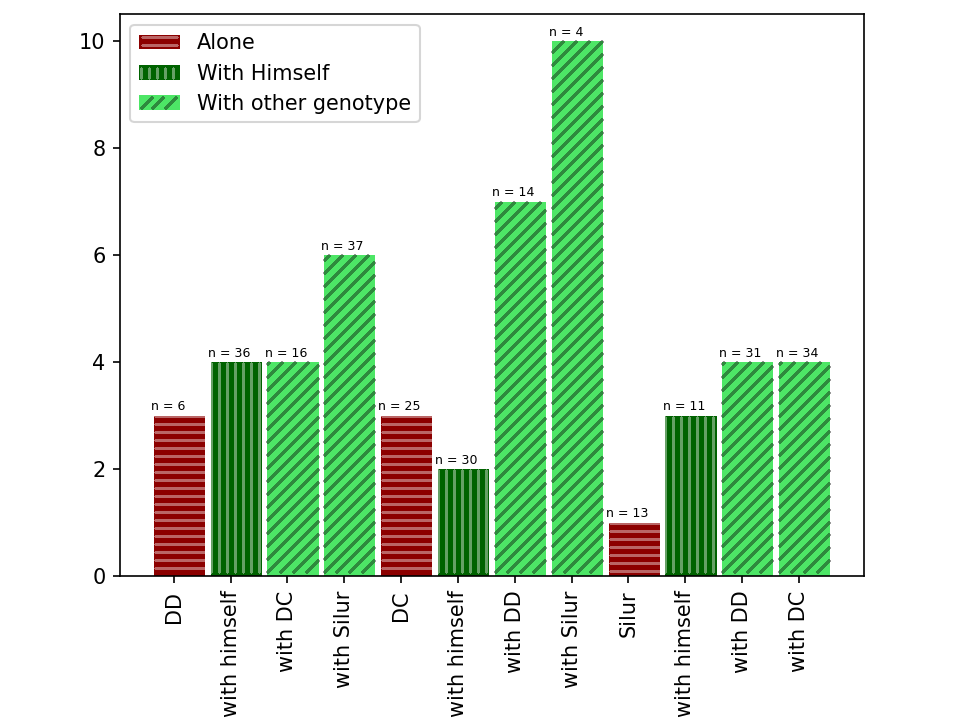
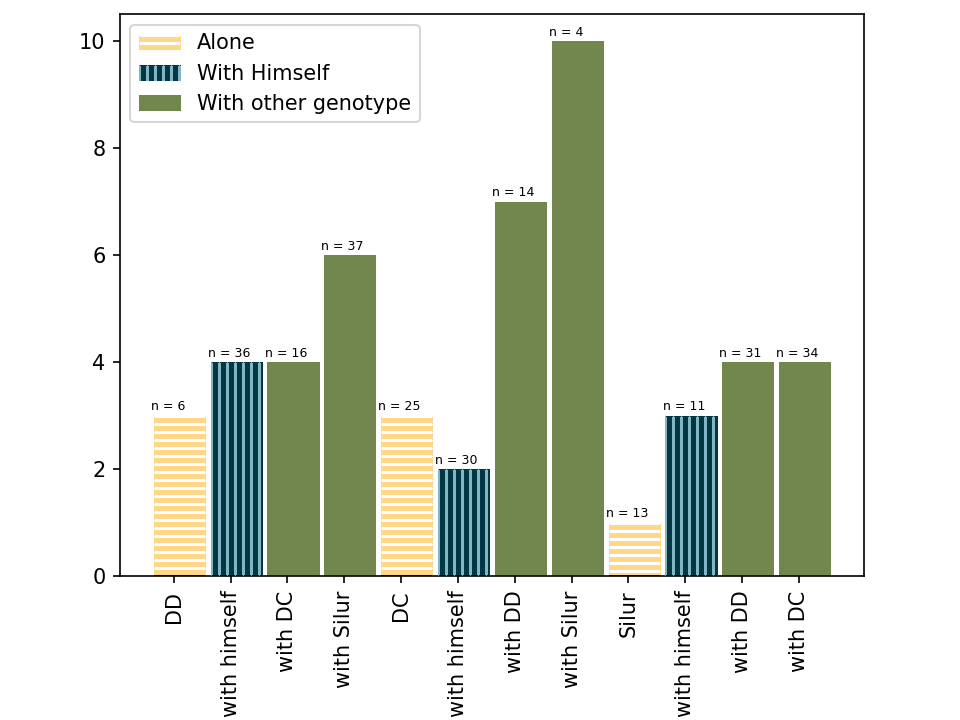
adding color adjustments

Changed region(s): [[0.1562, 0.0306, 0.875, 0.825], [0.125, 0.0306, 0.1875, 0.1528]]

diff --git a/Prototype/backend/Algorithm/addPattern.py b/Prototype/backend/Algorithm/addPattern.py
@@ -3,8 +3,20 @@ import numpy as np
 from sklearn.cluster import KMeans
 from sklearn.cluster import DBSCAN
 from scipy.spatial.distance import euclidean
+import os
 
-def add_hatches_to_bars(input_path, output_path, num_colors=3, hatch_alpha=0.3):
+def add_hatches_to_bars(input_path, output_folder, hatch_alpha=0.3, change_color=True):
+    """
+    Adjust colors and add hatch patterns to bars in a bar plot image.
+    :param input_path: Path to the input image
+    :param output_folder: Path to the output folder
+    :param hatch_alpha: Alpha value for blending the hatches with the original image
+    :param change_color: If True, the bars will be colored with a predefined color palette
+
+    Results:
+    - hatched_bars.png: The image with hatched patterns on the bars
+    - color_adjusted.png: The original image with color adjustments (only when change_color=True)
+    """
     # Load image and convert color spaces
     img = cv2.imread(input_path)
     # get the image size
@@ -26,12 +38,6 @@ def add_hatches_to_bars(input_path, output_path, num_colors=3, hatch_alpha=0.3):
     margin = 10  # Add some margin
     x, y, w, h = x + margin, y + margin, w - 2*margin, h - 2*margin
     plot_area = gray[y:y+h, x:x+w]
-
-    # # show the contour
-    # cv2.drawContours(img_rgb, [plot_contour], -1, (255, 255, 0), 2)
-    # cv2.imshow('Largest Contour', cv2.cvtColor(img_rgb, cv2.COLOR_RGB2BGR))
-    # cv2.waitKey(0)
-    # cv2.destroyAllWindows()
     
     # Step 2: Detect bars within plot area
     # Adaptive thresholding for better bar detection
@@ -46,12 +52,6 @@ def add_hatches_to_bars(input_path, output_path, num_colors=3, hatch_alpha=0.3):
     # Find bar contours
     bar_contours, _ = cv2.findContours(cleaned, cv2.RETR_EXTERNAL, cv2.CHAIN_APPROX_SIMPLE)
 
-    # # show the bar contours
-    # cv2.drawContours(plot_area_rgb, bar_contours, -1, (0, 255, 0), 2)
-    # cv2.imshow('Bar Contours', cv2.cvtColor(plot_area_rgb, cv2.COLOR_RGB2BGR))
-    # cv2.waitKey(0)
-    # cv2.destroyAllWindows()
-    
     # Filter and collect bars with coordinates in the original image space
     bars = []
     legends = []
@@ -74,22 +74,8 @@ def add_hatches_to_bars(input_path, output_path, num_colors=3, hatch_alpha=0.3):
         s_variance = np.var(hsv_roi[:, :, 1])
         v_variance = np.var(hsv_roi[:, :, 2])
         if h_variance < 100 and s_variance < 100 and v_variance < 100:
-            bars.append((xb, yb, wb, hb + margin//2))
+            bars.append((xb, yb, wb, hb + margin - 3))
     
-    # # plot the bars
-    # for (xb, yb, wb, hb) in bars:
-    #     cv2.rectangle(img_rgb, (xb, yb), (xb+wb, yb+hb), (255, 0, 0), 1)
-    # cv2.imshow('Bars', cv2.cvtColor(img_rgb, cv2.COLOR_RGB2BGR))
-    # cv2.waitKey(0)
-    # cv2.destroyAllWindows()
-
-    # # plot the legends
-    # for (xb, yb, wb, hb) in legends:
-    #     cv2.rectangle(img_rgb, (xb, yb), (xb+wb, yb+hb), (255, 0, 0), 1)
-    # cv2.imshow('Legends', cv2.cvtColor(img_rgb, cv2.COLOR_RGB2BGR))
-    # cv2.waitKey(0)
-    # cv2.destroyAllWindows()
-
     x_legend, y_legend, w_legend, h_legend = legends[0]
     margin_legend = 5
     x_legend, y_legend, w_legend, h_legend = x_legend + margin_legend, y_legend + margin_legend, w_legend - 2*margin_legend, h_legend - 2*margin_legend
@@ -107,15 +93,10 @@ def add_hatches_to_bars(input_path, output_path, num_colors=3, hatch_alpha=0.3):
     # Find bar contours
     legend_contours, _ = cv2.findContours(cleaned, cv2.RETR_EXTERNAL, cv2.CHAIN_APPROX_SIMPLE)
 
-    # # show all the legend contours on legend area
-    # cv2.drawContours(legend_area, legend_contours, -1, (0, 255, 0), 2)
-    # cv2.imshow('Legend Contours', legend_area)
-    # cv2.waitKey(0)
-
     # Filter and collect bars with coordinates in the original image space
     legend_bars = []
     min_bar_area = 5 # Adjust based on image size
-    small_bar_margin = 2
+    small_bar_margin = 0
     for cnt in legend_contours:
         area = cv2.contourArea(cnt)
         if area < min_bar_area:
@@ -182,6 +163,9 @@ def add_hatches_to_bars(input_path, output_path, num_colors=3, hatch_alpha=0.3):
     # cv2.waitKey(0)
     # cv2.destroyAllWindows()
 
+    acadia_color_palettes = ['#FED789FF', '#023743FF', '#72874EFF', '#476F84FF', '#A4BED5FF', '#453947FF']
+
+
     # Step 4: Create hatch patterns
     patterns = [
         {'type': 'horizontal', 'spacing': 8, 'thickness': 2},
@@ -192,33 +176,47 @@ def add_hatches_to_bars(input_path, output_path, num_colors=3, hatch_alpha=0.3):
     ]
     
     # Create overlay
-    overlay = original.copy()
+    color_overlay = original.copy()
+    hatch_overlay = np.zeros_like(original, dtype=np.uint8) # for hatches
+    for i, (group, bar_list) in enumerate(group_bars.items()):
+        if change_color:
+            bar_color = acadia_color_palettes[i % len(acadia_color_palettes)]
+            bar_color = tuple(int(bar_color[i:i+2], 16) for i in (1, 3, 5))
+            for (xb, yb, wb, hb) in bar_list:
+                cv2.rectangle(color_overlay, (xb, yb), (xb+wb, yb+hb), bar_color, -1)
+    # Save the result with color adjustments
+    result = color_overlay.copy()
+    output_path = os.path.join(output_folder, 'color_adjusted.png')
+    cv2.imwrite(output_path, cv2.cvtColor(result, cv2.COLOR_RGB2BGR))
+
+    if change_color:
+        hatch_overlay = color_overlay.copy()
+    else:
+        hatch_overlay = original.copy()
     for i, (group, bar_list) in enumerate(group_bars.items()):
         pattern = patterns[i % len(patterns)]
         bar_color = color_map[group]
         # get the luminance of the color and if it is less than 128, use white hatches
         luminance = 0.299 * bar_color[0] + 0.587 * bar_color[1] + 0.114 * bar_color[2]
         print(luminance)
-        if luminance < 128:
-            color = (255, 255, 255) # White hatches
-        else:
-            color = (0, 0, 0)  # Black hatches
+        color = (255, 255, 255) if luminance < 128 else (0, 0, 0)  # White if dark, black if bright
+
         for (xb, yb, wb, hb) in bar_list:
             if pattern['type'] == 'horizontal':
                 for y_line in range(yb, yb+hb+1, pattern['spacing']):
-                    cv2.line(overlay, (xb + 1, y_line), (xb+wb-1, y_line), color, pattern['thickness'])
+                    cv2.line(hatch_overlay, (xb + 1, y_line), (xb+wb-1, y_line), color, pattern['thickness'])
             elif pattern['type'] == 'vertical':
                 for x_line in range(xb, xb+wb+1, pattern['spacing']):
-                    cv2.line(overlay, (x_line, yb+1), (x_line, yb+hb), color, pattern['thickness'])
+                    cv2.line(hatch_overlay, (x_line, yb+1), (x_line, yb+hb), color, pattern['thickness'])
             elif pattern['type'] == 'cross':
                 for y_line in range(yb, yb+hb, pattern['spacing']):
-                    cv2.line(overlay, (xb, y_line), (xb+wb, y_line), color, pattern['thickness'])
+                    cv2.line(hatch_overlay, (xb, y_line), (xb+wb, y_line), color, pattern['thickness'])
                 for x_line in range(xb, xb+wb, pattern['spacing']):
-                    cv2.line(overlay, (x_line, yb), (x_line, yb+hb), color, pattern['thickness'])
+                    cv2.line(hatch_overlay, (x_line, yb), (x_line, yb+hb), color, pattern['thickness'])
             elif pattern['type'] == 'dots':
                 for y_dot in range(yb, yb+hb, pattern['spacing']):
                     for x_dot in range(xb, xb+wb, pattern['spacing']):
-                        cv2.circle(overlay, (x_dot, y_dot), pattern['radius'], color, -1)
+                        cv2.circle(hatch_overlay, (x_dot, y_dot), pattern['radius'], color, -1)
             elif pattern['type'] == 'diagonal':
                 step = pattern['spacing']
                 k = pattern['slope']
@@ -235,7 +233,7 @@ def add_hatches_to_bars(input_path, output_path, num_colors=3, hatch_alpha=0.3):
                         pt2 = (int(pt2_x), yb)
                     else:
                         pt2 = (xb + wb, int(pt2_y))
-                    cv2.line(overlay, pt1, pt2, color, pattern['thickness'])
+                    cv2.line(hatch_overlay, pt1, pt2, color, pattern['thickness'])
                     x_start -= step
 
                 y_start = yb + hb
@@ -249,7 +247,7 @@ def add_hatches_to_bars(input_path, output_path, num_colors=3, hatch_alpha=0.3):
                         pt2 = (int(pt2_x), yb)
                     else:
                         pt2 = (xb + wb, int(pt_2_y))
-                    cv2.line(overlay, pt1, pt2, color, pattern['thickness'])
+                    cv2.line(hatch_overlay, pt1, pt2, color, pattern['thickness'])
                     y_start -= step
                 
             #
@@ -260,9 +258,11 @@ def add_hatches_to_bars(input_path, output_path, num_colors=3, hatch_alpha=0.3):
             # cv2.destroyAllWindows()
     
     # Blend and save
-    result = cv2.addWeighted(original, 1 - hatch_alpha, overlay, hatch_alpha, 0)
+    result = cv2.addWeighted(hatch_overlay, 1 - hatch_alpha, hatch_overlay, hatch_alpha, 0)
+    output_path = os.path.join(output_folder, 'hatched_bars.png')
     cv2.imwrite(output_path, cv2.cvtColor(result, cv2.COLOR_RGB2BGR))
 
 if __name__ == '__main__':
     # Usage
-    add_hatches_to_bars('./Prototype/backend/Algorithm/barplot_threeColors_red_green.png', './Prototype/backend/Algorithm/acessibile_barplot.png', num_colors=5, hatch_alpha=0.4)
+    add_hatches_to_bars('./Prototype/backend/Algorithm/barplot_threeColors_red_green.png', 
+                        './Prototype/backend/Algorithm/', hatch_alpha=0.5, change_color=True)
